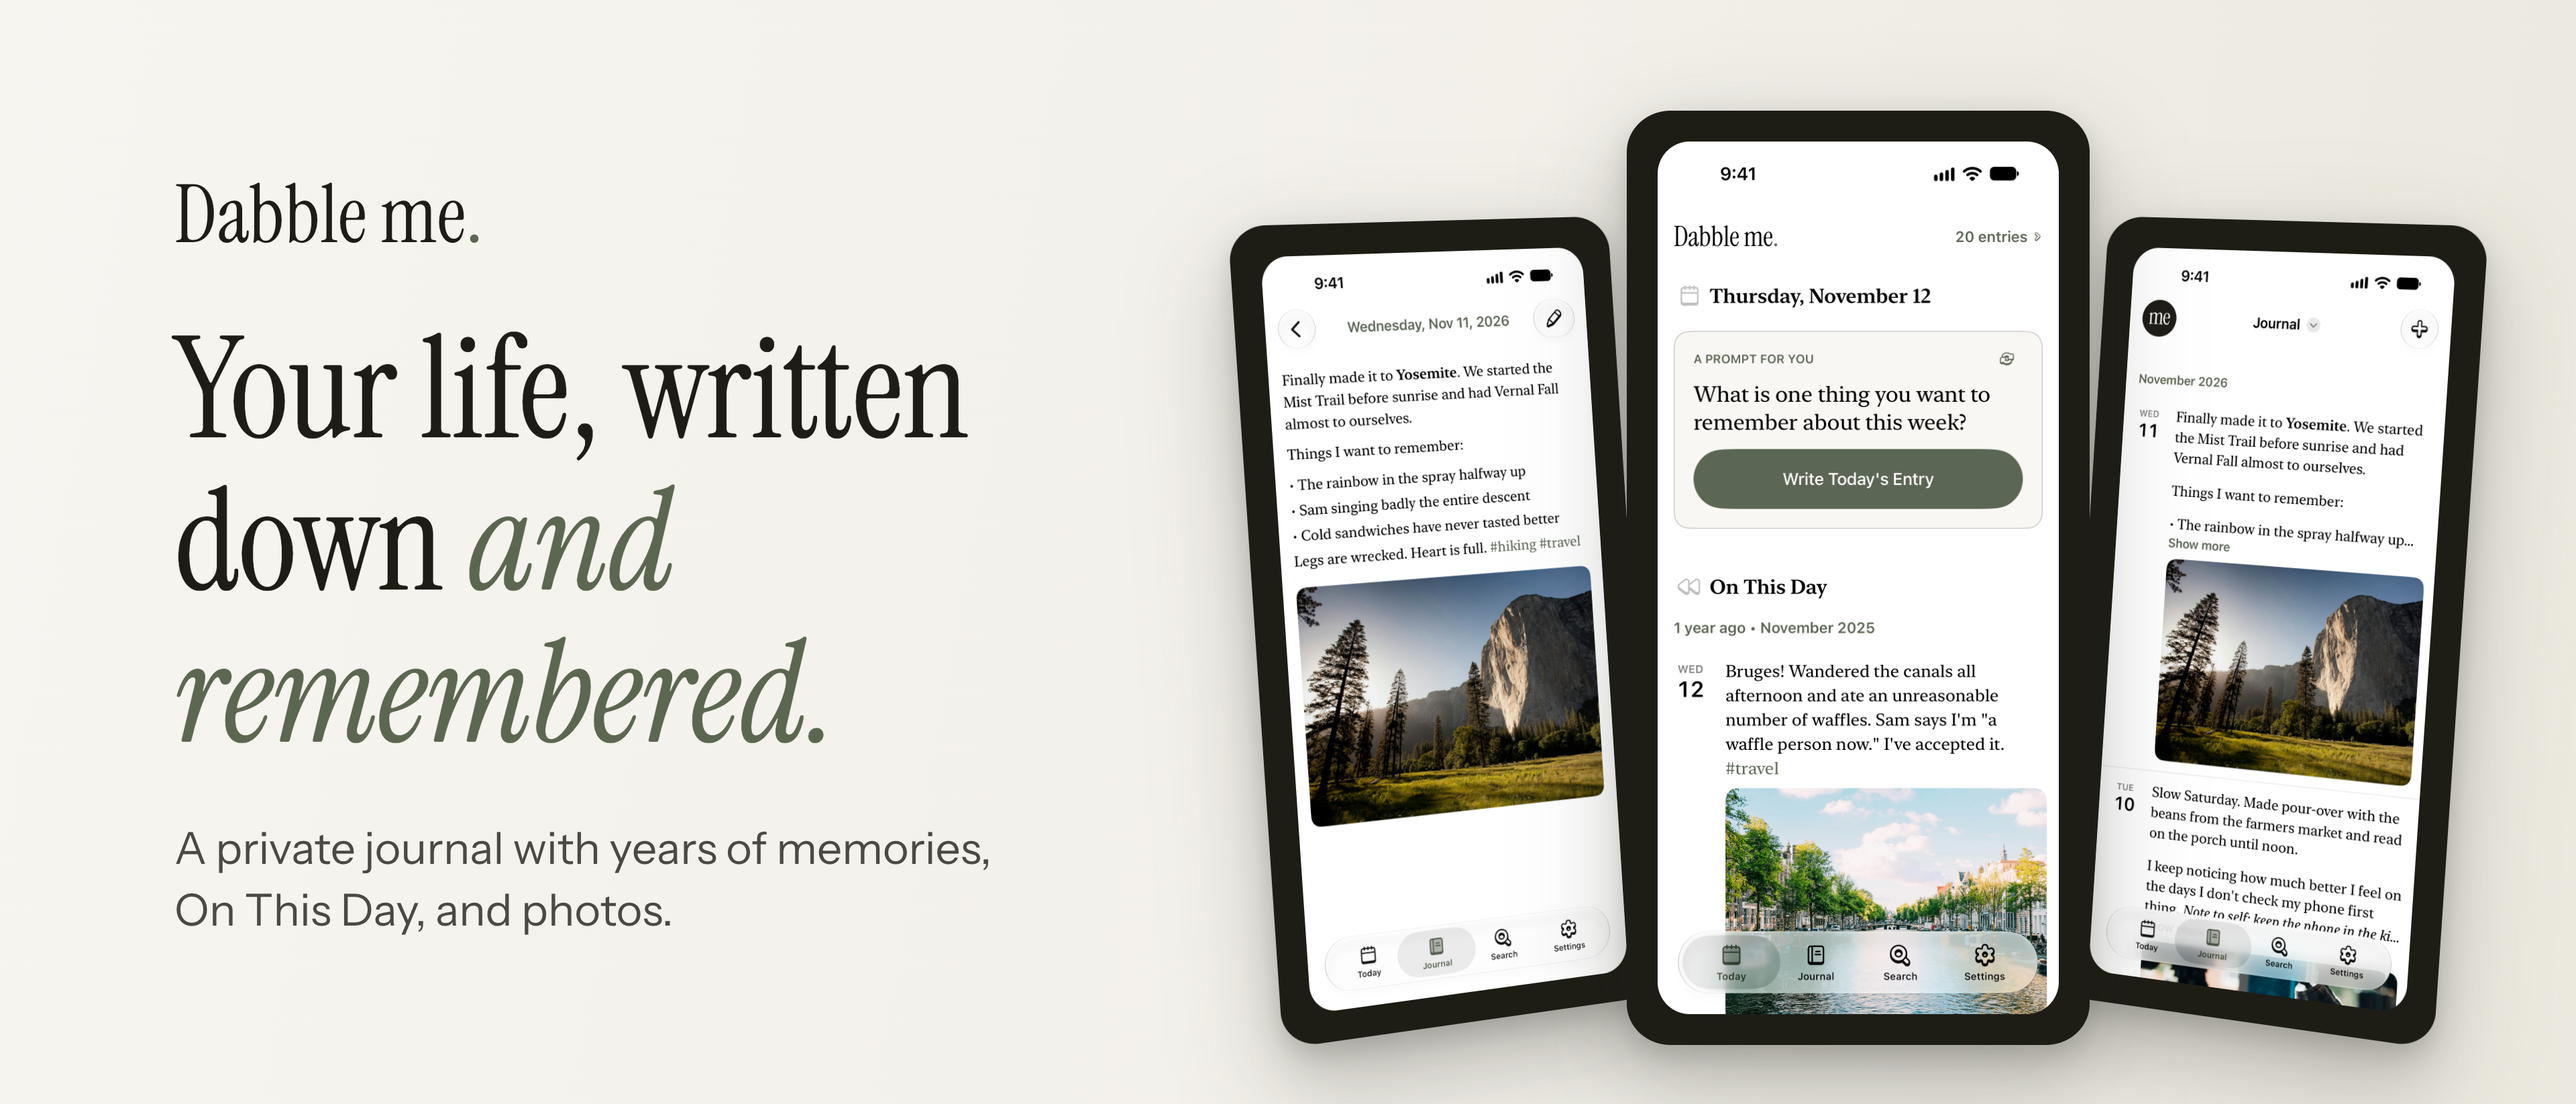
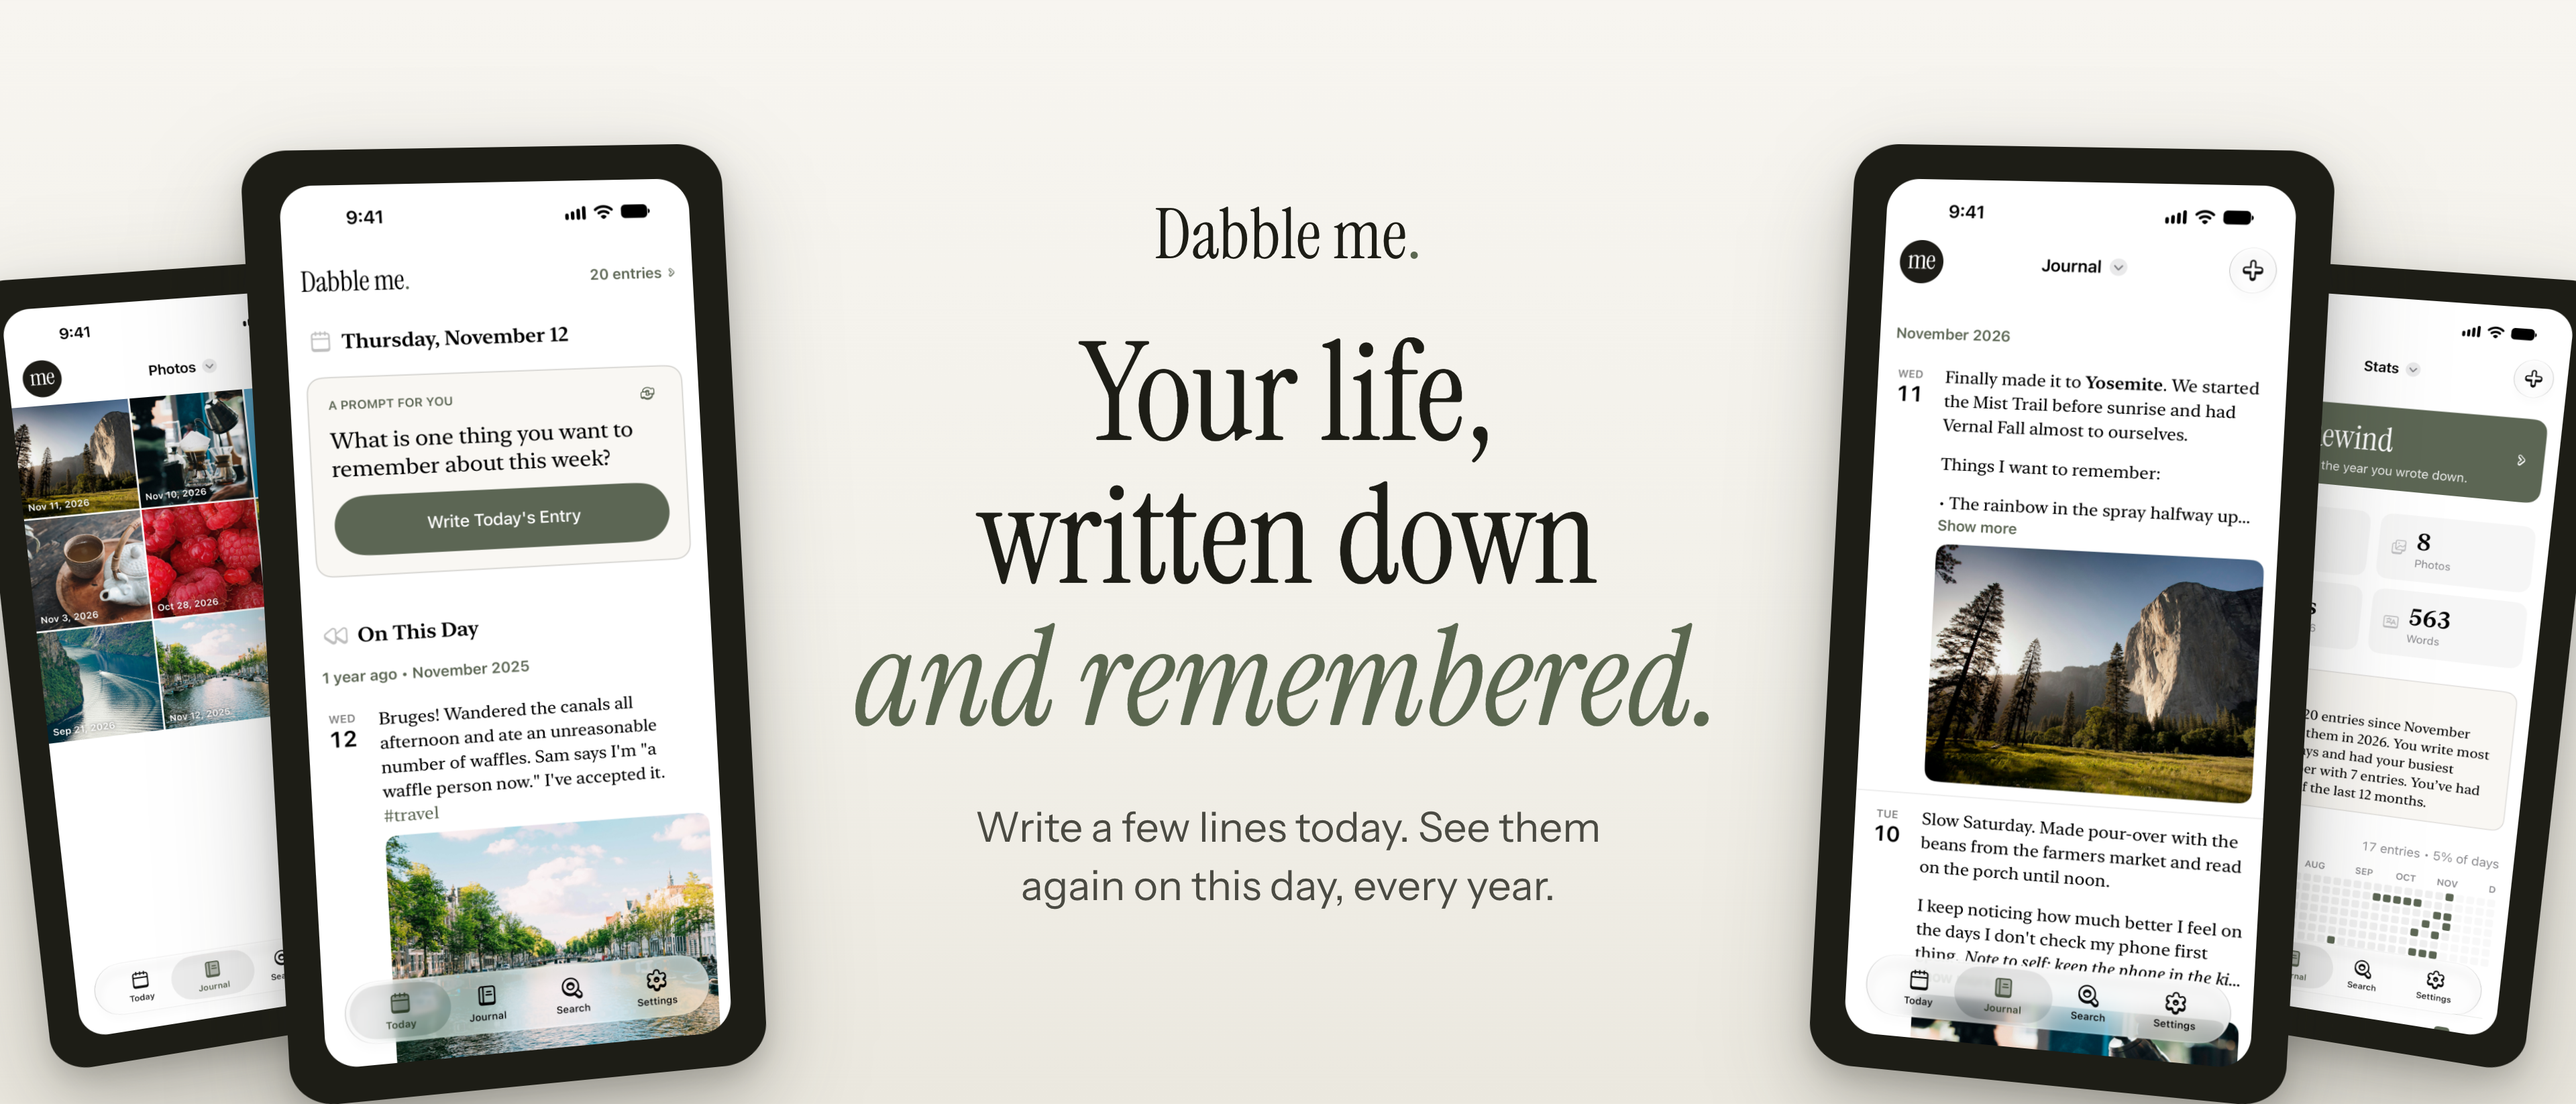
App Store header and search images: the words in the centre, new captions
iPhone shows about the middle four fifths of the header, which cut the headline off at the
left; the headline is centred now, with the phones either side.

diff --git a/ios/AppStore/Screenshots/Header and Search Results/source/header.html b/ios/AppStore/Screenshots/Header and Search Results/source/header.html
@@ -3,26 +3,33 @@
 <link href="https://fonts.googleapis.com/css2?family=Instrument+Sans:wght@400;500&family=Instrument+Serif:ital@0;1&display=block" rel="stylesheet">
 <link rel="stylesheet" href="common.css">
 <style>
-body { width: 3840px; height: 1646px; background: linear-gradient(100deg, #f7f5f0 0%, #f2f0e9 55%, #ebe8df 100%); position: relative; }
-.copy { position: absolute; left: 260px; top: 0; height: 1646px; width: 1560px; display: flex; flex-direction: column; justify-content: center; }
-.wordmark { font-size: 120px; color: var(--ink); }
+/* iPhone shows about the middle 3100px of the width, with its back and share buttons over the
+   top corners: the words sit in the centre, and the outer phones can be cut away. */
+body { width: 3840px; height: 1646px; background: linear-gradient(180deg, #f7f5f0 0%, #f2f0e9 60%, #ebe8df 100%); position: relative; }
+.copy { position: absolute; left: 1170px; top: 0; width: 1500px; height: 1646px; display: flex; flex-direction: column; justify-content: center; align-items: center; text-align: center; }
+.wordmark { font-size: 104px; color: var(--ink); }
 .wordmark .dot { color: var(--olive); }
-h1 { font-size: 210px; line-height: 1.08; color: var(--ink); margin-top: 70px; }
+h1 { font-size: 204px; line-height: 1.04; color: var(--ink); margin-top: 64px; }
 h1 em { color: var(--olive); font-style: italic; }
-p { font-size: 66px; line-height: 1.4; color: #4a4a42; margin-top: 70px; }
-.stage { position: absolute; right: 120px; top: 0; width: 1900px; height: 1646px; perspective: 5200px; }
-.phone.left  { width: 600px; left: 40px;  top: 330px; transform: rotateY(28deg) rotateZ(-4deg); }
-.phone.right { width: 600px; right: 40px; top: 330px; transform: rotateY(-28deg) rotateZ(4deg); }
-.phone.center{ width: 690px; left: 605px; top: 165px; z-index: 2; }
+p { font-size: 62px; line-height: 1.4; color: #4a4a42; margin-top: 72px; max-width: 1080px; }
+.stage { position: absolute; left: 0; top: 0; width: 3840px; height: 1646px; perspective: 5200px; }
+/* (The bezel in px: a percentage would be of the whole stage's width here.) */
+.phone.inner { width: 700px; top: 220px; padding: 52px; z-index: 2; }
+.phone.outer { width: 580px; top: 400px; padding: 44px; }
+.phone.inner.left  { left: 410px;  transform: rotateY(18deg) rotateZ(-3deg); }
+.phone.inner.right { right: 410px; transform: rotateY(-18deg) rotateZ(3deg); }
+.phone.outer.left  { left: 30px;   transform: rotateY(26deg) rotateZ(-6deg); }
+.phone.outer.right { right: 30px;  transform: rotateY(-26deg) rotateZ(6deg); }
 </style></head><body>
+<div class="stage">
+  <div class="phone outer left"><img src="PHOTOS"></div>
+  <div class="phone outer right"><img src="STATS"></div>
+  <div class="phone inner left"><img src="TODAY"></div>
+  <div class="phone inner right"><img src="JOURNAL"></div>
+</div>
 <div class="copy">
   <div class="wordmark serif">Dabble me<span class="dot">.</span></div>
-  <h1 class="serif">Your life, written down <em>and remembered.</em></h1>
-  <p class="sans">A private journal with years of memories, On&nbsp;This&nbsp;Day, and photos.</p>
-</div>
-<div class="stage">
-  <div class="phone left"><img src="ENTRY"></div>
-  <div class="phone right"><img src="JOURNAL"></div>
-  <div class="phone center"><img src="TODAY"></div>
+  <h1 class="serif">Your life,<br>written down<br><em>and remembered.</em></h1>
+  <p class="sans">Write a few lines today. See them again on this day, every year.</p>
 </div>
 </body></html>

diff --git a/ios/AppStore/Screenshots/Header and Search Results/source/search.html b/ios/AppStore/Screenshots/Header and Search Results/source/search.html
@@ -4,10 +4,10 @@
 <style>
 body { width: 3840px; height: 2560px; background: var(--olive); position: relative; }
 .col { position: absolute; top: 0; width: 1280px; height: 2560px; }
-.col h2 { position: absolute; top: 170px; width: 100%; text-align: center; color: #fff; font-size: 175px; line-height: 1.0; letter-spacing: -1.5px; }
+.col h2 { position: absolute; top: 170px; width: 100%; text-align: center; color: #fff; font-size: 166px; line-height: 1.04; letter-spacing: -1.5px; }
 .col .phone { width: 900px; left: 190px; top: 560px; box-shadow: 0 50px 120px rgba(0,0,0,.30), 0 14px 34px rgba(0,0,0,.2); }
 </style></head><body>
-<div class="col" style="left:0"><h2 class="serif">See this day,<br>years ago</h2><div class="phone"><img src="TODAY"></div></div>
-<div class="col" style="left:1280px"><h2 class="serif">Write with<br>photos</h2><div class="phone"><img src="WRITE"></div></div>
-<div class="col" style="left:2560px"><h2 class="serif">Every memory,<br>one tap away</h2><div class="phone"><img src="JOURNAL"></div></div>
+<div class="col" style="left:0"><h2 class="serif">A year ago today,<br>you wrote this</h2><div class="phone"><img src="TODAY"></div></div>
+<div class="col" style="left:1280px"><h2 class="serif">A few lines now<br>is all it takes</h2><div class="phone"><img src="WRITE"></div></div>
+<div class="col" style="left:2560px"><h2 class="serif">Years of your life,<br>one scroll away</h2><div class="phone"><img src="JOURNAL"></div></div>
 </body></html>
